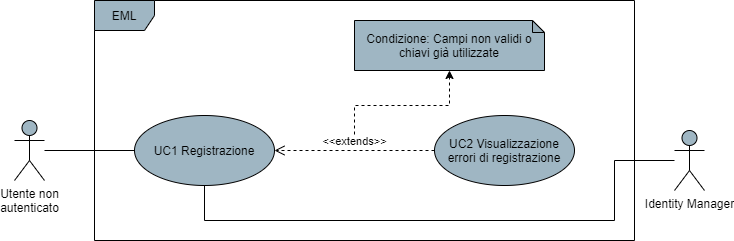
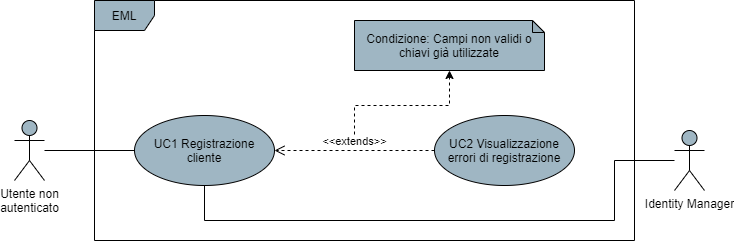
Separato login, chiarifica registrazione #88

Changed region(s): [[0.2098, 0.5809, 0.3597, 0.6971]]

diff --git a/DocumentazioneEsterna/AnalisiDeiRequisiti/res/UseCase/Login/useCaseLoginCliente.tex b/DocumentazioneEsterna/AnalisiDeiRequisiti/res/UseCase/Login/useCaseLoginCliente.tex
@@ -1,0 +1,71 @@
+\begin{figure}[H]
+\centering
+\includegraphics[scale=0.6]{res/UseCase/Immagini/LoginCliente}
+\caption{Schema generale: modulo di login cliente}
+\end{figure}
+
+\subsubsection{UC3 - Login cliente}
+\begin{itemize}
+\item \textbf{Attori primari}: utente non autenticato;
+\item \textbf{Attori secondari}: identity manager;
+\item \textbf{Descrizione}: il cliente, inserendo le proprie credenziali, viene autenticato alla piattaforma;
+\item \textbf{Scenario Principale}: l'utente non ancora autenticato inizia la procedura di login tramite l'apposito pulsante, inserisce le proprie credenziali \textbf{[UC3.1]} e richiede il login \textbf{[UC3.2]};
+\item \textbf{Estensioni}:
+\begin{itemize}
+	\item \textbf{UC4}: se le credenziali inserite non vengono riconosciute dall'identity manager, viene visualizzato un messaggio che informa l'utente dell'errore;
+\end{itemize}
+\item \textbf{Precondizione}: il cliente prova ad autenticarsi alla piattaforma;
+\item \textbf{Postcondizione}: il cliente viene autenticato.
+\end{itemize}
+
+\begin{figure}[H]
+\centering
+\includegraphics[scale=0.6]{res/UseCase/Immagini/LoginClienteSottocasi}
+\caption{Diagramma UML\ped{G} per UC3 - Login}
+\end{figure}
+
+\subsubsection{UC3.1 - Inserimento dati login}
+\begin{itemize}
+\item \textbf{Attori primari}: utente non autenticato;
+\item \textbf{Descrizione}: il cliente compila il form per il login;
+\item \textbf{Scenario Principale}: l'utente inserisce nel form apposito i dati necessari al login.
+\item \textbf{Precondizione}: il form di inserimento dati per il login è disponibile;
+\item \textbf{Postcondizione}: i dati necessari al login sono stati compilati.
+\end{itemize}
+
+\subsubsection{UC3.1.1 - Inserimento password}
+\begin{itemize}
+\item \textbf{Attori primari}: utente non autenticato;
+\item \textbf{Descrizione}: il cliente deve compilare il campo "Password" per procedere al login;
+\item \textbf{Scenario Principale}: l'utente inserisce la sua password nell'apposito campo;
+\item \textbf{Precondizione}: il campo "Password" risulta vuoto;
+\item \textbf{Postcondizione}: il campo "Password" è stato compilato.
+\end{itemize}
+
+\subsubsection{UC3.1.2 - Inserimento email}
+\begin{itemize}
+\item \textbf{Attori primari}: utente non autenticato;
+\item \textbf{Descrizione}: il cliente deve compilare il campo "Email" per procedere al login;
+\item \textbf{Scenario Principale}: l'utente inserisce il suo indirizzo email nell'apposito campo;
+\item \textbf{Precondizione}: il campo "Email" risulta vuoto;
+\item \textbf{Postcondizione}: il campo "Email" è stato compilato.
+\end{itemize}
+
+\subsubsection{UC3.2 - Richiesta di login}
+\begin{itemize}
+\item \textbf{Attori primari}: utente non autenticato;
+\item \textbf{Descrizione}: il cliente richiede l'autenticazione con i dati inseriti;
+\item \textbf{Scenario Principale}: l'utente preme il tasto di login e manda la richiesta al sistema con i dati presenti nel form;
+\item \textbf{Precondizione}: il cliente prova ad autenticarsi alla piattaforma;
+\item \textbf{Postcondizione}: la richiesta di login è stata mandata al sistema.
+\end{itemize} 
+
+\subsubsection{UC4 - Visualizzazione errore dati login errati}
+\begin{itemize}
+\item \textbf{Attori primari}: utente non autenticato;
+\item \textbf{Attori secondari}: identity manager;
+\item \textbf{Descrizione}: l'utente visualizza un messaggio di errore che lo informa che i dati da lui inseriti durante il login non sono riconosciuti dall'identity manager;
+\item \textbf{Scenario Principale}: l'utente tenta di effettuare il login usando credenziali non presenti nel sistema;
+\item \textbf{Precondizione}: l'utente prova ad autenticarsi alla piattaforma;
+\item \textbf{Postcondizione}: viene visualizzato un messaggio che informa l'utente dell'errore di riconoscimento delle credenziali.
+\end{itemize}

diff --git a/DocumentazioneEsterna/AnalisiDeiRequisiti/res/UseCase/Login/useCaseLoginVenditore.tex b/DocumentazioneEsterna/AnalisiDeiRequisiti/res/UseCase/Login/useCaseLoginVenditore.tex
@@ -1,0 +1,61 @@
+\begin{figure}[H]
+\centering
+\includegraphics[scale=0.6]{res/UseCase/Immagini/LoginVenditore}
+\caption{Schema generale: modulo di login venditore}
+\end{figure}
+
+\subsubsection{UCX - Login venditore}
+\begin{itemize}
+\item \textbf{Attori primari}: utente non autenticato;
+\item \textbf{Attori secondari}: identity manager;
+\item \textbf{Descrizione}: il venditore, inserendo le proprie credenziali, viene autenticato alla piattaforma;
+\item \textbf{Scenario Principale}: l'utente non ancora autenticato accede alla pagina di login per il venditore, cliccando sul pulsante dedicato all'accesso alla merchant dashboard. Inserisce poi le proprie credenziali \textbf{[UCX.1]} e richiede il login \textbf{[UCX.2]};;
+\item \textbf{Estensioni}:
+\begin{itemize}
+	\item \textbf{UC4}: se le credenziali inserite non vengono riconosciute dall'identity manager, viene visualizzato un messaggio che informa l'utente dell'errore;
+\end{itemize}
+\item \textbf{Precondizione}: il venditore prova ad autenticarsi alla piattaforma;
+\item \textbf{Postcondizione}: il venditore viene autenticato.
+\end{itemize}
+
+\begin{figure}[H]
+\centering
+\includegraphics[scale=0.6]{res/UseCase/Immagini/LoginVenditoreSottocasi}
+\caption{Diagramma UML\ped{G} per UCX - Login venditore}
+\end{figure}
+
+\subsubsection{UCX.1 - Inserimento dati login}
+\begin{itemize}
+\item \textbf{Attori primari}: utente non autenticato;
+\item \textbf{Descrizione}: il venditore compila il form per il login;
+\item \textbf{Scenario Principale}: l'utente inserisce nel form apposito i dati necessari al login.
+\item \textbf{Precondizione}: il form di inserimento dati per il login è disponibile;
+\item \textbf{Postcondizione}: i dati necessari al login sono stati compilati.
+\end{itemize}
+
+\subsubsection{UCX.1.1 - Inserimento password}
+\begin{itemize}
+\item \textbf{Attori primari}: utente non autenticato;
+\item \textbf{Descrizione}: il venditore deve compilare il campo "Password" per procedere al login;
+\item \textbf{Scenario Principale}: l'utente inserisce la sua password nell'apposito campo;
+\item \textbf{Precondizione}: il campo "Password" risulta vuoto;
+\item \textbf{Postcondizione}: il campo "Password" è stato compilato.
+\end{itemize}
+
+\subsubsection{UCX.1.2 - Inserimento email}
+\begin{itemize}
+\item \textbf{Attori primari}: utente non autenticato;
+\item \textbf{Descrizione}: il venditore deve compilare il campo "Email" per procedere al login;
+\item \textbf{Scenario Principale}: l'utente inserisce il suo indirizzo email nell'apposito campo;
+\item \textbf{Precondizione}: il campo "Email" risulta vuoto;
+\item \textbf{Postcondizione}: il campo "Email" è stato compilato.
+\end{itemize}
+
+\subsubsection{UCX.2 - Richiesta di login}
+\begin{itemize}
+\item \textbf{Attori primari}: utente non autenticato;
+\item \textbf{Descrizione}: il venditore richiede l'autenticazione con i dati inseriti;
+\item \textbf{Scenario Principale}: l'utente preme il tasto di login e manda la richiesta al sistema con i dati presenti nel form;
+\item \textbf{Precondizione}: il venditore prova ad autenticarsi alla piattaforma;
+\item \textbf{Postcondizione}: la richiesta di login è stata mandata al sistema.
+\end{itemize} 

diff --git a/DocumentazioneEsterna/AnalisiDeiRequisiti/res/UseCase/Registrazione/useCaseRegistrazione.tex b/DocumentazioneEsterna/AnalisiDeiRequisiti/res/UseCase/Registrazione/useCaseRegistrazione.tex
@@ -1,15 +1,15 @@
 \begin{figure}[H]
 \centering
 \includegraphics[scale=0.6]{res/UseCase/Immagini/RegistrazioneGenerale}
-\caption{Schema generale: modulo di registrazione}
+\caption{Schema generale: modulo di registrazione cliente}
 \end{figure}
 
-\subsubsection{UC1 - Registrazione}
+\subsubsection{UC1 - Registrazione cliente}
 \begin{itemize}
 \item \textbf{Attori primari}: utente non autenticato;
 \item \textbf{Attori secondari}: Identity Manager;
-\item \textbf{Descrizione}: viene effettuata la registrazione nel sistema, inserendo i propri dati personali nella pagina dedicata;
-\item \textbf{Scenario Principale}: l'utente non autenticato accede alla pagina di registrazione, il sistema rende disponibili i campi da compilare, l'utente compila i campi [\textbf{UC1.1}], conferma la registrazione [\textbf{UC1.2}] e l'Identity Manager si occupa della registrazione nel sistema;
+\item \textbf{Descrizione}: viene effettuata la registrazione di un cliente nel sistema, inserendo i propri dati personali nella pagina dedicata;
+\item \textbf{Scenario Principale}: l'utente non autenticato accede alla pagina di registrazione, il sistema rende disponibili i campi da compilare, l'utente compila i campi [\textbf{UC1.1}], conferma la registrazione [\textbf{UC1.2}] e l'Identity Manager si occupa della registrazione dell'utente nel sistema;
 \item \textbf{Estensioni}:
 \begin{itemize}
 \item \textbf{UC2}: se i campi non sono validi o l'email è già stata utilizzata nel sistema, viene mostrato un errore di registrazione all'utente non autenticato e l'utente potrà provare nuovamente ad eseguire la registrazione.
@@ -21,7 +21,7 @@
 \begin{figure}[H]
 \centering
 \includegraphics[scale=0.6]{res/UseCase/Immagini/Registrazione}
-\caption{Diagramma UML\ped{G} per UC1 - Registrazione}
+\caption{Diagramma UML\ped{G} per UC1 - Registrazione cliente}
 \end{figure}
 
 \subsubsection{UC1.1 - Inserimento dati}

diff --git a/DocumentazioneEsterna/AnalisiDeiRequisiti/res/UseCase/useCase.tex b/DocumentazioneEsterna/AnalisiDeiRequisiti/res/UseCase/useCase.tex
@@ -23,7 +23,7 @@
 In questa sezione vi sono elencati tutti i casi d'uso (UC) individuati. Ogni UC rappresenta uno scenario per uno o più attori e viene descritto tramite diagrammi dei casi d'uso. Ogni UC, infine, possiede una precondizione e una postcondizione. \\
 
 \input{res/UseCase/Registrazione/useCaseRegistrazione}
-\input{res/UseCase/Login/useCaseLogin}
+\input{res/UseCase/Login/useCaseLoginCliente}
 \input{res/UseCase/Logout/useCaseLogout}
 \input{res/UseCase/Carrello/useCaseCarrello}
 \input{res/UseCase/Checkout/useCaseCheckout}
@@ -31,4 +31,5 @@ In questa sezione vi sono elencati tutti i casi d'uso (UC) individuati. Ogni UC 
 \input{res/UseCase/Homepage/useCaseHomepage}
 \input{res/UseCase/PLP/useCasePLP}
 \input{res/UseCase/PDP/useCasePDP}
+\input{res/UseCase/Login/useCaseLoginVenditore}
 \input{res/UseCase/Merchant/useCaseMerchant}
